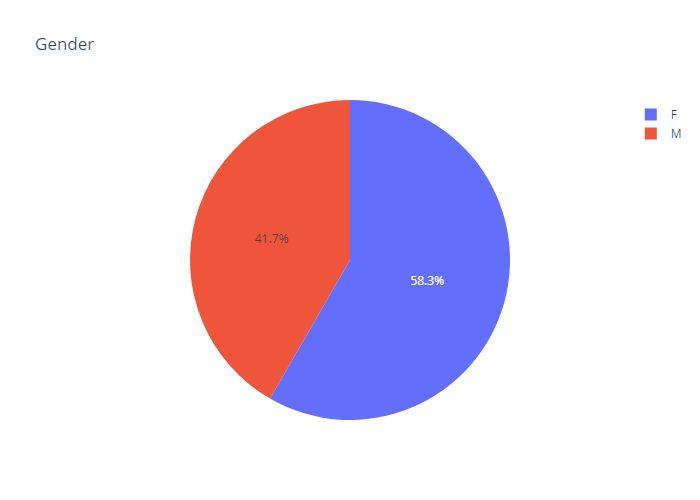
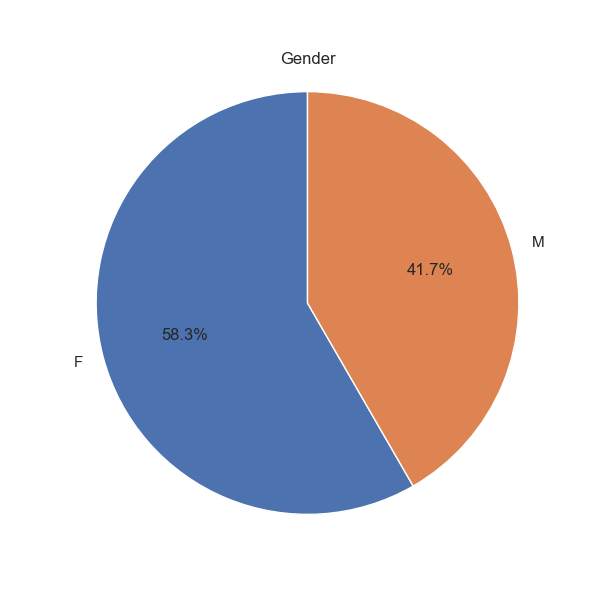
use seaborn instead of Plotly to save space

diff --git a/seaborn_plot_functions.py b/seaborn_plot_functions.py
@@ -1,0 +1,184 @@
+"""This script contains functions to create different kinds of plot with Seaborn"""
+
+import matplotlib.pyplot as plt
+import seaborn as sns
+import os
+
+
+def create_storage_path(survey_id="sample_001"):
+    """Function to create a path in the directory based on the unique survey id.
+
+    :param survey_id: str
+                The survey id
+
+    :return: full_path: str
+                The full path to where the plots will be stored
+    """
+    # create a directory to store the plot images
+    directory_path = 'survey_images'
+    if not os.path.exists(directory_path):
+        os.makedirs(directory_path)
+    # create a folder for each survey to store the charts associated with that survey
+    storage_path = os.path.join(directory_path, survey_id)
+    if not os.path.exists(storage_path):
+        os.makedirs(storage_path)
+    return storage_path
+
+
+def create_bar_graph(series, title, storage_path, x_label="Values", y_label="Count"):
+    """Function to create a bar graph.
+
+    Parameters
+    ----------
+    series: Pandas Series.
+        It will take the unique values and their total count
+    title: str,
+        Title of the plot. Let this be the column name
+    storage_path: str
+        Path to store the image plots based on the unique survey_id
+    x_label: str,
+        default value is "Values"
+    y_label: str,
+        default value is "Count"
+    """
+    # set the plot background style
+    sns.set(style="white")
+    plt.figure(figsize=(10, 6))  # Adjust the figure size as needed
+    # get the unique values and their total count
+    value_counts = series.value_counts()
+    # create a bar graph
+    ax = sns.barplot(x=value_counts.index, y=value_counts.values, color='brown')
+    # set the labels and the title
+    ax.set(xlabel=x_label, ylabel=y_label, title=title)
+    # Add value labels to the bars
+    for bar in ax.patches:
+        # Get the coordinates of the bar
+        x = bar.get_x() + bar.get_width() / 2
+        y = bar.get_height()
+        # Add the text label
+        ax.text(x, y, int(y), ha='center', va='bottom')
+    # plt.show()
+    # Save the chart as an image. Let the image match the title
+    # replace spaces in the title with _ and ? with an empty string
+    filename = '{}_bar_chart.png'.format(title.replace(" ", "_").replace("?", ""))
+    # add the image plot to the survey folder
+    full_path = os.path.join(storage_path, filename)
+    plt.savefig(full_path)
+    return full_path
+
+
+def create_violin_plot(data, title, storage_path, x_label=" ", y_label="Value"):
+    """Function to create a violin plot.
+
+    Parameters
+    ----------
+    data: Pandas Series.
+        It will take the unique values and their total count
+    title: str,
+        title of the plot. Let this be the column name
+    storage_path: str
+        Path to store the image plots based on the unique survey_id
+    x_label: str,
+        default value is ""
+    y_label: str,
+        default value is "Value"
+    """
+    sns.set(style="whitegrid")
+    plt.figure(figsize=(6, 4))  # Adjust the figure size as needed
+    # plot violin plot
+    ax = sns.violinplot(data=data)
+    ax.set(xlabel=x_label, ylabel=y_label, title=title)
+    # plt.show()
+    filename = '{}_violin_chart.png'.format(title.replace(" ", "_").replace("?", ""))
+    # add the image plot to the survey folder
+    full_path = os.path.join(storage_path, filename)
+    plt.savefig(full_path)
+    return full_path
+
+
+def create_box_plot(data, title, storage_path, x_label=" ", y_label="Value"):
+    """Function to create a box plot.
+
+    Parameters
+    ----------
+    data: Pandas Series.
+        It will take the unique values and their total count
+    title: str, title of the plot.
+        Let this be the column name
+    storage_path: str
+        Path to store the image plots based on the unique survey_id
+    x_label: str,
+        default value is ""
+    y_label: str,
+        default value is "Value"
+    """
+    sns.set(style="whitegrid")
+    plt.figure(figsize=(6, 4))  # Adjust the figure size as needed
+    # plot boxplot
+    ax = sns.boxplot(data=data)
+    ax.set(xlabel=x_label, ylabel=y_label, title=title)
+    # plt.show()
+    filename = '{}_boxplot.png'.format(title.replace(" ", "_").replace("?", ""))
+    # add the image plot to the survey folder
+    full_path = os.path.join(storage_path, filename)
+    plt.savefig(full_path)
+    return full_path
+
+
+def create_pie_chart(series, title, storage_path):
+    """Function to create a pie chart
+
+    Parameters
+    ----------
+    series: Pandas Series.
+        It will take the unique values and their total count
+    title: str,
+        Title of the plot. Let this be the column name
+    storage_path: str
+        Path to store the image plots based on the unique survey_id
+    """
+    value_counts = series.value_counts()
+    # Get the labels and sizes as a list
+    labels = value_counts.index.tolist()
+    sizes = value_counts.values.tolist()
+    plt.figure(figsize=(6, 6))  # Adjust the figure size as needed
+    plt.pie(sizes, labels=labels, autopct='%1.1f%%', startangle=90)
+    plt.axis('equal')  # Equal aspect ratio ensures that pie is drawn as a circle
+    plt.title(title)
+    # plt.show()
+    # Save the chart as an image. Let the image match the title
+    filename = '{}_pie_chart.png'.format(title.replace(" ", "_").replace("?", ""))
+    # add the image plot to the survey folder
+    full_path = os.path.join(storage_path, filename)
+    plt.savefig(full_path)
+    return full_path
+
+
+def create_histogram(data, title, storage_path, x_label="Values", y_label="Frequency", bins="auto"):
+    """
+    Function to create a histogram.
+
+    Parameters
+    ----------
+    data: Pandas Series or numpy array
+        Data to plot the histogram.
+    title: str
+        Title of the plot.
+    storage_path: str
+        Path to store the image plots based on the unique survey_id
+    x_label: str, optional
+        Label for the x-axis, default is "Values".
+    y_label: str, optional
+        Label for the y-axis, default is "Frequency".
+    bins: int, optional
+        Number of histogram bins, default is None (automatically determined).
+    """
+    sns.set(style="whitegrid")
+    plt.figure(figsize=(10, 6))  # Adjust the figure size as needed
+    ax = sns.histplot(data, bins=bins)
+    ax.set(xlabel=x_label, ylabel=y_label, title=title)
+    # Save the chart as an image. Let the image match the title
+    filename = '{}_histogram.png'.format(title.replace(" ", "_").replace("?", ""))
+    full_path = os.path.join(storage_path, filename)
+    plt.savefig(full_path)
+    return full_path

diff --git a/flask_api.py b/flask_api.py
@@ -37,12 +37,13 @@ class ChartResource(Resource):
 
         # send the image files
         return jsonify({'survey_id': str(survey_id),
-                        'analysis': {'number of responses': str(len(df)),
-                                     'completeness_rate': str(completion_perc),
-                                     'average_responses': str(average_time),
-                                     'invalid_responses': str(invalid_response_count),
-                                     'profanities': "Unknown"},
+                        'analysis_result': {'number of responses': str(len(df)),
+                                            'completeness_rate': str(completion_perc),
+                                            'average_responses': str(average_time),
+                                            'invalid_responses': str(invalid_response_count),
+                                            'profanities': "Unknown"},
                         'charts': charts,
+                        'image_format': "PNG"
                         })
 
 

diff --git a/plotly_plot_functions.py b/plotly_plot_functions.py
@@ -1,8 +1,8 @@
-"""This script contains functions to create different kinds of plot"""
+"""This script contains functions to create different kinds of plot with Plotly"""
 
 # import matplotlib.pyplot as plt
 # import seaborn as sns
-import plotly.graph_objs as go
+# import plotly.graph_objs as go
 import os
 # import plotly.offline as pyo
 # import plotly.io as pio
@@ -123,7 +123,7 @@ def create_box_plot(data, title, storage_path, x_label="Chart", y_label="Value")
 
     # pio.show(fig)
     # Save the chart as an image. Let the image match the title
-    filename = '{}_violin_plot.png'.format(title.replace(" ", "_").replace("?", ""))
+    filename = '{}_boxplot.png'.format(title.replace(" ", "_").replace("?", ""))
     # add the image plot to the survey folder
     full_path = os.path.join(storage_path, filename)
     fig.write_image(full_path)

diff --git a/analysis_skeleton.py b/analysis_skeleton.py
@@ -2,7 +2,7 @@ import numpy as np
 import pandas as pd
 import requests
 # from profanity_check import predict
-from plotly_plot_functions import *
+from seaborn_plot_functions import *
 
 # create empty lists for the different categories of survey questions
 categorical = []
